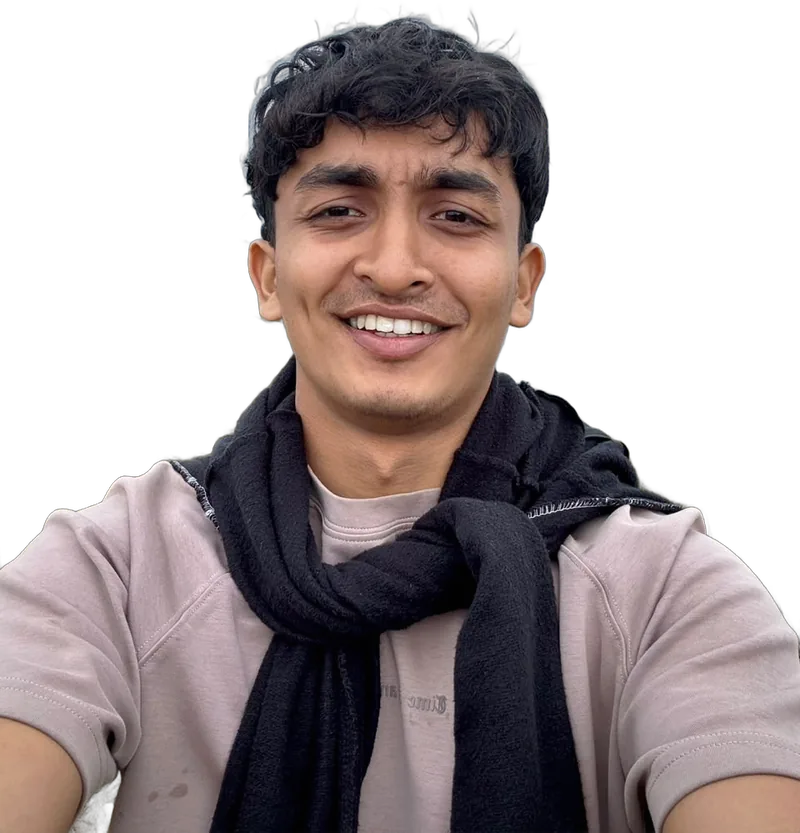
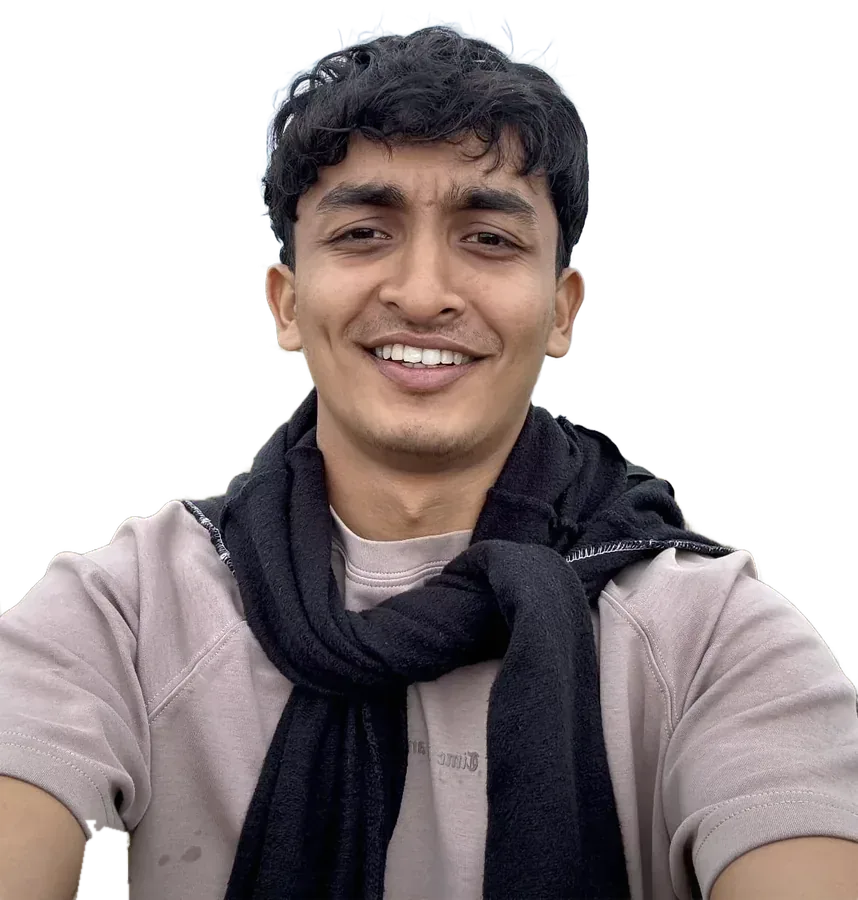
Update Mubashir team photo

diff --git a/index.html b/index.html
@@ -259,7 +259,7 @@
         <div class="win-stack member-win">
           <div class="win">
             <div class="win-bar"><span class="dots"><i></i><i></i><i></i></span><b>Marketing</b></div>
-            <div class="win-body grid-bg"><span class="initial" aria-hidden="true">M</span><img loading="lazy" decoding="async" class="member-photo" src="assets/img/team-mubashir.webp" alt="Mubashir, digital marketing at webnwillow" width="800" height="833"><img loading="lazy" decoding="async" class="member-mega" src="assets/img/icon-megaphone.webp" alt="" width="355" height="339"></div>
+            <div class="win-body grid-bg"><span class="initial" aria-hidden="true">M</span><img loading="lazy" decoding="async" class="member-photo" src="assets/img/team-mubashir.webp?v=3" alt="Mubashir, digital marketing at webnwillow" width="858" height="900"><img loading="lazy" decoding="async" class="member-mega" src="assets/img/icon-megaphone.webp" alt="" width="355" height="339"></div>
           </div>
           <div class="member-name"><b>Mubashir</b><small>Digital marketing</small></div>
         </div>
